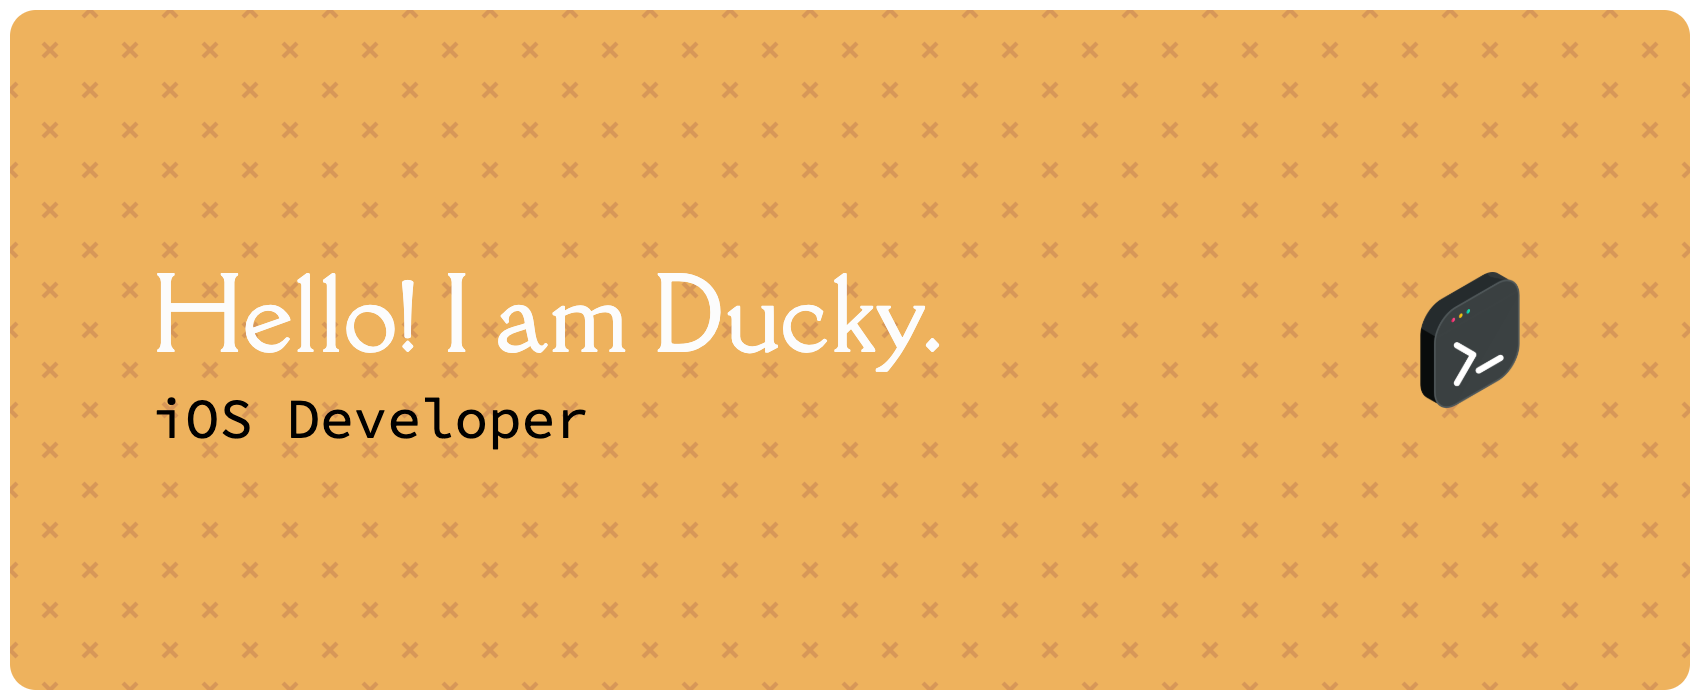
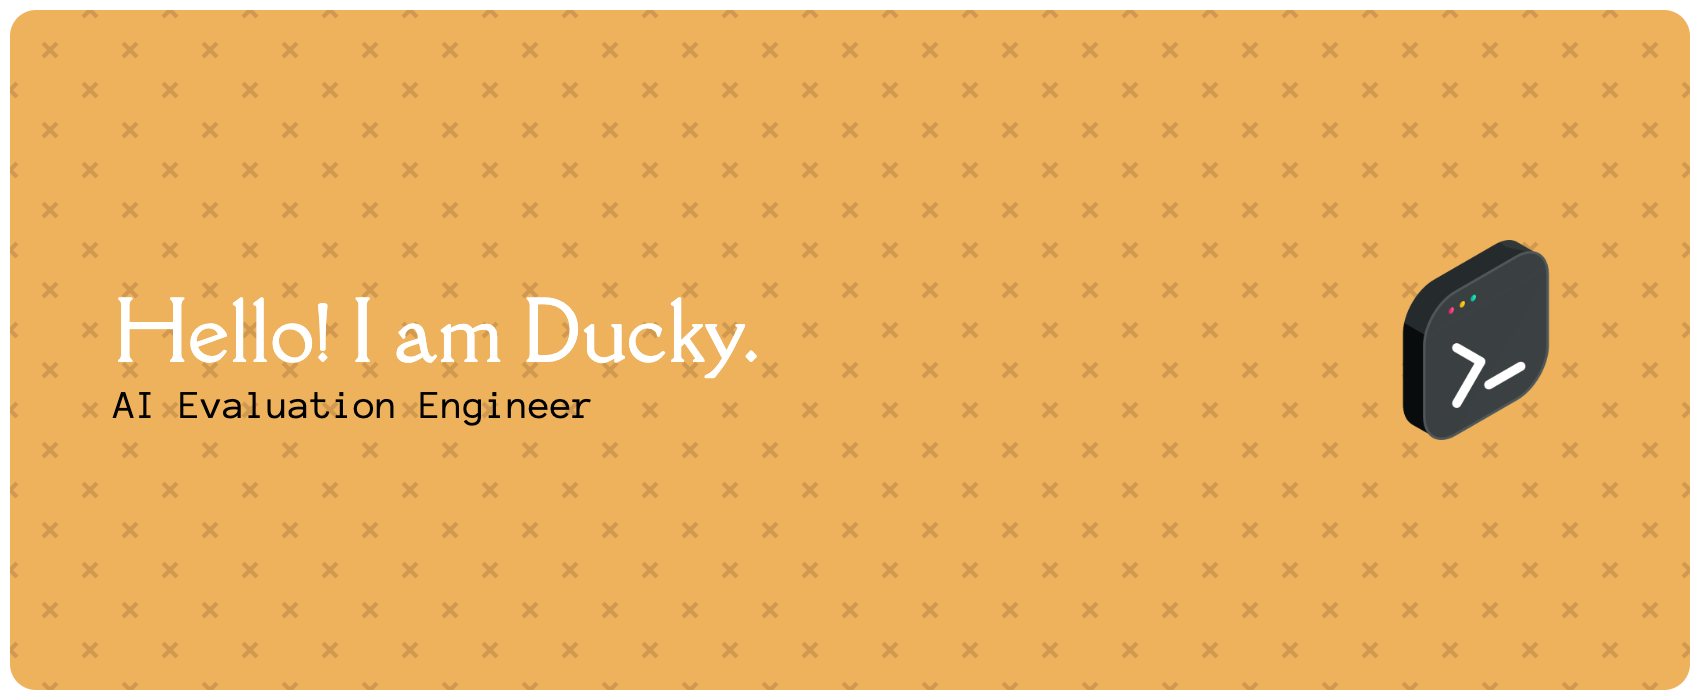
Update README.md

Changed region(s): [[0.0624, 0.39, 0.5612, 0.54], [0.8106, 0.33, 0.9353, 0.63], [0.0624, 0.57, 0.3429, 0.63]]

diff --git a/README.md b/README.md
@@ -1,16 +1,17 @@
 
-![Header. Text says "Hello! I am Ducky iOS developer"](./github-header-banner.png)
+![Header. Text says "Hello! I am Ducky AI Evaluation Engineer"](./github-header-banner.png)
 
 ## 💫 About Me:
-🔭 I’m working on the "Meal Seeker" iOS app.  
-👯 Currently learning Swift and SwiftUI with Xcode.  
-🤝 I have 12+ years of experience in web, iOS, and Android app testing as a QA.  
-⚡ Fun fact: I used to work as a designer.
+🔭 I’m working on a policy RAG chatbot with hybrid search, human-reviewed evals, and DeepEval checks.<br> 
+👯 12+ years in mobile and web QA, now applying that testing mindset to LLM outputs.<br>
+🤝 Comfortable with Python, FastAPI, and local models (Ollama).<br>
+:iphone: Previously built SwiftUI apps; still open to feedback on the evaluation work.<br>
+⚡ Fun fact: I used to work as a designer.<br> 
 
 ## 🚀 Featured Projects
-![App Demo GIF](screenshots/Snapful-app-video.gif)
+![Demo GIF](screenshots/chat-idk.gif)
 
-- Link: [Snapful](https://github.com/pixieducky/swift-snapful)
+- Link: [Policy RAG Chat and Evaluation](https://github.com/pixieducky/policy-rag-eval)
 
 
 ### 🌐 Socials:
@@ -18,22 +19,22 @@
 
 
 ## 💻 My Skills:
-[![My Skills](https://skillicons.dev/icons?i=swift,html,css,bash,firebase,npm,jenkins,mongodb,figma,git,github,postman,sentry,vscode&perline=10)](https://skillicons.dev)
+[![My Skills](https://skillicons.dev/icons?i=py,fastapi,postgres,git,github,postman,vscode&perline=10)](https://skillicons.dev)
 
-:small_orange_diamond: HTML, CSS, Bash, Firebase, npm, Jenkins, MongoDB, Figma, Git, Github,
-Postman, Sentry, VS Code
+:small_orange_diamond: Python, FastAPI, Pydantic, RAG(Chroma + hybrid search), LangChain, DeepEval, Ollama
 
-- iOS Dev: Swift, SwiftUI, Xcode, Networking (REST APIs), SwiftData/Core Data   
-- QA Transferables: Swift testing/XCTest unit/integration testing, Agile/Scrum, Bug tracking (e.g., Jira)  
-- Other: Git, Figma, Canva, Basic UI/UX from design background
 
+- QA: Test design, edge-case analysis, human evaluation, defect documentation   
+- Tools: Git/GitHub, Postman, VS Code, JIRA, TestRail
+- Other: Swift/SwiftUI (side projects), PostgreSQL
+  
 
 ### 📊 GitHub Stats:
 [![Ducky's GitHub Streak](https://github-readme-streak-stats-eight.vercel.app?user=pixieducky&theme=calm-pink&short_numbers=true&card_height=190&hide_longest_streak=true)](https://git.io/streak-stats)
 
 
  ## :inbox_tray: Let's Connect!
- Open to Junior iOS developer roles in the UK. Please feel free to reach out via Email or LinkedIn for a chat or Swift projects.
+ Open to AI QA / LLM Evaluation roles (UK or remote). Happy to share the evaluation report or walk through the RAG project.
 
 
  ![](https://komarev.com/ghpvc/?username=pixieducky&color=yellowgreen&stylle=for-the-badge&label=PROFILE+VIEWS&abbreviated=true)
